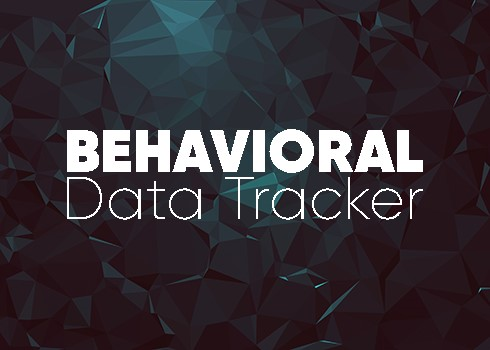
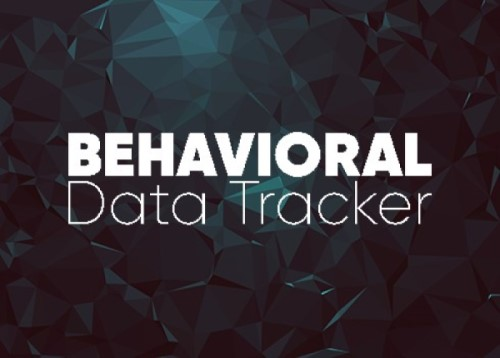
css changes on login page and topnav, populating student charts on admin page

diff --git a/client/src/pages/Admin/Admin.js b/client/src/pages/Admin/Admin.js
@@ -12,7 +12,7 @@ class Admin extends Component {
 
         this.state = {
             currentUserInfo: {},
-            teacherId: '',
+            behaviorInfo: {behaviors: {}},
             chooseComponent: '',
             chosenBxId: '',
             chosenStudent: '',
@@ -40,79 +40,80 @@ class Admin extends Component {
         
         //Gathers this user's data and makes call to load behaviors associated with this user
         API.associateAdmin(email, accessToken)
-            .then(res => this.setState({currentUserInfo: res.data}))
+            .then(res => {this.setState({currentUserInfo: res.data}); this.loadBehaviors()})
             .catch(err=> console.log(err));
     }
 
-    // // Loads all behaviors and sets them to this.state.behaviorInfo
-    // loadBehaviors = (id) => {
-    //     API.getBehaviors(id, this.state.accessToken)
-    //         .then(res => 
-    //             {                    
-    //                 this.setState({ behaviorInfo: res.data });
-    //                 M.AutoInit();
-    //             })
-    //         .catch(err => console.log(err));
-    // };
+    // Loads all behaviors and sets them to this.state.behaviorInfo
+    loadBehaviors = () => {
+        console.log("The call to load behaviors was made");
+        API.getAllBehaviors(this.state.accessToken)
+            .then(res => 
+                {                    
+                    this.setState({ behaviorInfo: {behaviors: res.data} });
+                    M.AutoInit();
+                })
+            .catch(err => console.log(err));
+    };
 
     handleSideNavClick = event => {
         event.preventDefault();
         this.setState({ chooseComponent: event.target.text });
     };
 
-    // handleChooseStudent = event => {
-    //     event.preventDefault();
-    //     //Pulls in data from the event target
-    //     const studentName = event.target.getAttribute('data-student');
-    //     const bxId = event.target.name;
-    //     const bxDescription = event.target.text;
-    //     //Sets event target data in state
-    //     this.setState({ chosenStudent: studentName, chosenBxId: bxId, chosenBx: bxDescription });
+    handleChooseStudent = event => {
+        event.preventDefault();
+        //Pulls in data from the event target
+        const studentName = event.target.getAttribute('data-student');
+        const bxId = event.target.name;
+        const bxDescription = event.target.text;
+        //Sets event target data in state
+        this.setState({ chosenStudent: studentName, chosenBxId: bxId, chosenBx: bxDescription });
 
-    //     //Call for all the data associated with this behavior needed for chart
-    //     API.getChartData(bxId, this.props.user.accessToken.jwtToken)
-    //     .then(res => {
-    //         const returnedData = res.data; //save returned data     
-    //         let behaviorDates = []; //initialize an array to hold all dates
-    //         let behaviorAverages = []; //initialize an array to hold all averages
+        //Call for all the data associated with this behavior needed for chart
+        API.getChartData(bxId, this.props.user.accessToken.jwtToken)
+        .then(res => {
+            const returnedData = res.data; //save returned data     
+            let behaviorDates = []; //initialize an array to hold all dates
+            let behaviorAverages = []; //initialize an array to hold all averages
 
-    //         //Loop through each day's behavioral data
-    //         for (let i=0; i < returnedData.length; i++) {
-    //             //Gathers info needed to populate chart
-    //             let bxDate = returnedData[i].behaviorDate;
-    //             let bxCount = (returnedData[i].behaviorCount);
-    //             let bxTotal = (returnedData[i].behaviorTotal);
-    //             //Calculates percent met for the day
-    //             let averagePercentage = ((bxTotal/bxCount)*100).toFixed(2);
-    //             //Pushes date and percent met to arrays
-    //             behaviorDates.push(bxDate);
-    //             behaviorAverages.push(averagePercentage);
-    //         }
-    //         //Sets state for the charts
-    //         this.setState({
-    //             chartData: {
-    //                 labels: behaviorDates,
-    //                 datasets:[{
-    //                     label: this.state.chosenBx,
-    //                     backgroundColor: "#48344f",
-    //                     data: behaviorAverages,
-    //                     borderColor: '"#48344f"',
-    //                     pointBackgroundColor: '#48344f"',
-    //                     pointBorderColor: ("#48344f"),
-    //                     lineTension: 0,
-    //                     pointStyle: 'circle',
-    //                     fill: false
-    //                 }]
-    //             }
-    //         });
-    //     })
-    //     .catch(err => console.log(err));
-    // };
+            //Loop through each day's behavioral data
+            for (let i=0; i < returnedData.length; i++) {
+                //Gathers info needed to populate chart
+                let bxDate = returnedData[i].behaviorDate;
+                let bxCount = (returnedData[i].behaviorCount);
+                let bxTotal = (returnedData[i].behaviorTotal);
+                //Calculates percent met for the day
+                let averagePercentage = ((bxTotal/bxCount)*100).toFixed(2);
+                //Pushes date and percent met to arrays
+                behaviorDates.push(bxDate);
+                behaviorAverages.push(averagePercentage);
+            }
+            //Sets state for the charts
+            this.setState({
+                chartData: {
+                    labels: behaviorDates,
+                    datasets:[{
+                        label: this.state.chosenBx,
+                        backgroundColor: "#48344f",
+                        data: behaviorAverages,
+                        borderColor: '"#48344f"',
+                        pointBackgroundColor: '#48344f"',
+                        pointBorderColor: ("#48344f"),
+                        lineTension: 0,
+                        pointStyle: 'circle',
+                        fill: false
+                    }]
+                }
+            });
+        })
+        .catch(err => console.log(err));
+    };
 
-    // hideChart = event => {
-    //     event.preventDefault();
-    //     this.setState({ chosenStudent: '', chosenBxId: '', chosenBx: '' });
-    // }
+    hideChart = event => {
+        event.preventDefault();
+        this.setState({ chosenStudent: '', chosenBxId: '', chosenBx: '' });
+    }
 
     render() {
         return(
@@ -124,18 +125,20 @@ class Admin extends Component {
                     />
                 </div>
                 <div className='main-right'>
-                    <TopNav logout={this.props.onLogout} />
+                    <div className="navbar-fixed">
+                        <TopNav logout={this.props.onLogout} />
+                    </div>
                     <AdminMainContainer
-                        // chosenStudent={this.state.chosenStudent}
-                        // chosenBx={this.state.chosenBx}
-                        // chosenBxId={this.state.chosenBxId}
+                        chosenStudent={this.state.chosenStudent}
+                        chosenBx={this.state.chosenBx}
+                        chosenBxId={this.state.chosenBxId}
                         chooseComponent={this.state.chooseComponent}
                         currentUserInfo={this.state.currentUserInfo}
-                        // behaviorInfo={this.state.behaviorInfo}
-                        // handleChooseStudent={this.handleChooseStudent}
-                        // hideChart={this.hideChart}
-                        // populateChart={this.populateChart}
-                        // chartData={this.state.chartData}
+                        behaviorInfo={this.state.behaviorInfo}
+                        handleChooseStudent={this.handleChooseStudent}
+                        hideChart={this.hideChart}
+                        populateChart={this.populateChart}
+                        chartData={this.state.chartData}
                         // ready={this.state.ready}
                     />
                 </div>

diff --git a/client/src/App.js b/client/src/App.js
@@ -26,40 +26,9 @@ class App extends Component {
 
     componentWillMount() {
         window.localStorage.clear();
-        // const email = this.props.user._id;
-        // const accessToken = this.props.user.accessToken;
-        // const idToken = this.state.idToken;
-        // const refreshToken = this.state.refreshToken;
-    //     const email = window.localStorage.getItem("email");
-    //     const accessToken = window.localStorage.getItem("accessToken");
-    //     const idToken = window.localStorage.getItem("idToken");
-    //     const refreshToken = window.localStorage.getItem("refreshToken");
-    //     console.log(accessToken);
-        // if (email && accessToken !== "undefined" && !this.state.user) {
-        //     API.associateTeacher(email, accessToken).then(({data}) => {
-        //         this.setState({user: {
-        //             accessToken: {jwtToken: accessToken}, idToken: {jwtToken: idToken}, refreshToken: {token: refreshToken}, ...data
-        //         }})
-        //     })
-            
-        // }
     }
     
-    componentDidUpdate(prevProps, prevState, snapshot) {
-        // if (prevState.user._id !== this.state.user._id) {
-        //     API.associateTeacher(this.state.user.userName, this.state.user.accessToken.jwtToken).then(({data})=>{
-        //         this.handleUser(...this.state.user, ...data)
-        //     })
-        // }
-    //     if (!prevState.user) {
-    //         if (this.state.user && this.state.user.userName) {
-    //             window.localStorage.setItem("email", this.state.user.userName)
-    //             window.localStorage.setItem("accessToken", this.state.user.accessToken.jwtToken)
-    //             window.localStorage.setItem("idToken", this.state.user.idToken.jwtToken)
-    //             window.localStorage.setItem("refreshToken", this.state.user.refreshToken.token)
-    //         }
-    //     }
-    }
+    // componentDidUpdate(prevProps, prevState, snapshot) {}
 
     handleUser = (user) => {
         this.setState({ user });

diff --git a/client/src/components/AdminMainContainer/index.js b/client/src/components/AdminMainContainer/index.js
@@ -1,8 +1,7 @@
 import React from 'react';
 //import RatingForm from '../RatingForm';
 //import BxChart from './../BxChart';
-//import TeacherDirections from './../TeacherDirections';
-//import ChooseChart from '../ChooseChart';
+import ChooseChart from '../ChooseChart';
 import './style.css';
 
 function AdminMainContainer(props) {
@@ -21,9 +20,21 @@ function AdminMainContainer(props) {
                     <p>This is currently empty.</p>
                 </div>);
         case 'View Student Data':
-            return (<div className="fixmain">
-                    <p>This is currently empty.</p>
-                </div>);
+        return (<div className="fixmain">
+                    <ChooseChart 
+                        user={props.user}
+                        behaviorInfo={props.behaviorInfo}
+                        handleChooseStudent={props.handleChooseStudent}
+                        chosenBxId={props.chosenBxId}
+                        chosenStudent={props.chosenStudent}
+                        chosenBx={props.chosenBx} 
+                        hideChart={props.hideChart}
+                        populateChart={props.populateChart}
+                        chartData={props.chartData}
+                        // ready={props.ready}
+                    />
+                </div>); 
+
         default:
             return (
                 <div className="fixmain">

diff --git a/controllers/teacherController.js b/controllers/teacherController.js
@@ -29,14 +29,14 @@ module.exports = {
             .catch(err => res.status(422).json(err));
     },
 
-    //Gets all behaviors
-    findAllBehaviorsRefTeachers: function(req, res) {
-        db.Teacher
-            .find(req.query) //we're not passing req.query
-            .populate("behaviors")
-            .then(dbModel => res.json(dbModel))
-            .catch(err => res.status(422).json(err));
-    },
+    // //Gets all behaviors
+    // findAllBehaviorsRefTeachers: function(req, res) {
+    //     db.Teacher
+    //         .find(req.query) //we're not passing req.query
+    //         .populate("behaviors")
+    //         .then(dbModel => res.json(dbModel))
+    //         .catch(err => res.status(422).json(err));
+    // },
 
     //Saves the ratings to the database... not sure why, but the inc is doubling everything (will just factor that into the math until a fix is found)
     saveRatings: function(req, res) {

diff --git a/client/src/components/LoginComponent/index.js b/client/src/components/LoginComponent/index.js
@@ -6,9 +6,9 @@ function LoginComponent(props) {
         <div className="container">
             <div className="row loginbox">
                 <div className="col s8 offset-s2">
-                    <div className="card horizontal">
+                    <div className="card">
                     <div className="card-image">
-                    <img className="background" src="images/geometric-cave.jpg" alt="background design" />
+                    <img className="background" src="images/geometric-cave2.jpg" alt="background design" />
                     </div>
                     <div className="card-stacked">
                         <div className="card-content">

diff --git a/routes/api/admin.js b/routes/api/admin.js
@@ -1,14 +1,16 @@
 const router = require("express").Router();
 const adminController = require("../../controllers/adminController");
 
-
 //Matches with '/api/teacher/behaviors/:id'
 router.route('/create/admin')
-  .post(adminController.createAdmin);
-//.post(teacherController.create);
+    .post(adminController.createAdmin);
+    //.post(teacherController.create);
+
+router.route('/behaviors')
+    .get(adminController.findAllBehaviors);
 
 //Matches with /api/admin/a/:email
 router.route("/a/:email")
-  .get(adminController.findByEmail)
+    .get(adminController.findByEmail)
 
 module.exports = router;

diff --git a/client/src/pages/Teacher/Teacher.js b/client/src/pages/Teacher/Teacher.js
@@ -124,7 +124,9 @@ class Teacher extends Component {
                     />
                 </div>
                 <div className='main-right'>
-                    <TopNav logout={this.props.onLogout} />
+                    <div className="navbar-fixed">
+                        <TopNav logout={this.props.onLogout} />
+                    </div>                    
                     <MainContainer
                         chosenStudent={this.state.chosenStudent}
                         chosenBx={this.state.chosenBx}

diff --git a/client/src/pages/Login/Login.js b/client/src/pages/Login/Login.js
@@ -19,6 +19,8 @@ class Login extends Component {
   handleSubmit = (e) => {
     e.preventDefault();
     this.props.onLogin(this.state.email, this.state.password).then((data) => {
+        //THIS NEEDS TO BE ASSOCIATE USER TO SEND USERS TO THE CORRECT DASHBOARD!!!
+        //For now, can be changed manually to "associateAdmin" to work on admin page
       console.log(data);
       API.associateTeacher(this.state.email, data.accessToken).then(({data: userData}) => {
         const tokens = {

diff --git a/cognitoConfig.js b/cognitoConfig.js
@@ -78,7 +78,7 @@ function confirmUser(req, res) {
             console.log(err);
             return;
         }
-        if (result === "SUCCESS" || (err && err.code === "NotAuthorizedException" && err.message === "User cannot be confirm. Current status is CONFIRMED")) {
+        if (result === "SUCCESS" || (err && err.code === "NotAuthorizedException" && err.message === "User cannot be confirmed. Current status is NOT CONFIRMED.")) {
         Login(req, res);
     }
     });

diff --git a/routes/api/teacher.js b/routes/api/teacher.js
@@ -1,7 +1,7 @@
 const router = require("express").Router();
 const teacherController = require("../../controllers/teacherController");
 const studentController = require("../../controllers/studentController");
-const behaviorController = require("../../controllers/studentController");
+// const behaviorController = require("../../controllers/studentController");
 
 //Matches with '/api/teacher/behaviors/:id'
 router.route('/behaviors/:id')

diff --git a/controllers/adminController.js b/controllers/adminController.js
@@ -2,6 +2,14 @@ const db = require("../models");
 
 // Defining methods for the adminController
 module.exports = {
+
+    findAllBehaviors: function(req, res) {
+        db.Behavior
+            .find({})
+            .then(dbModel => res.json(dbModel))
+            .catch(err=> res.status(422).json(err));
+    },
+
     //Create teacher
     createTeacher: function(req, res) {
         db.Teacher

diff --git a/client/src/utils/API.js b/client/src/utils/API.js
@@ -67,10 +67,10 @@ export default {
         });
     },
 
-    // Gets all behaviors
+    // Gets all behaviors (for admin use)
     getAllBehaviors: function(accesstoken) {
         return axios({
-            url: "/api/teacher/behaviors/",
+            url: "/api/admin/behaviors/",
             headers: {
                 'Content-Type': 'application/json',
                 accesstoken
